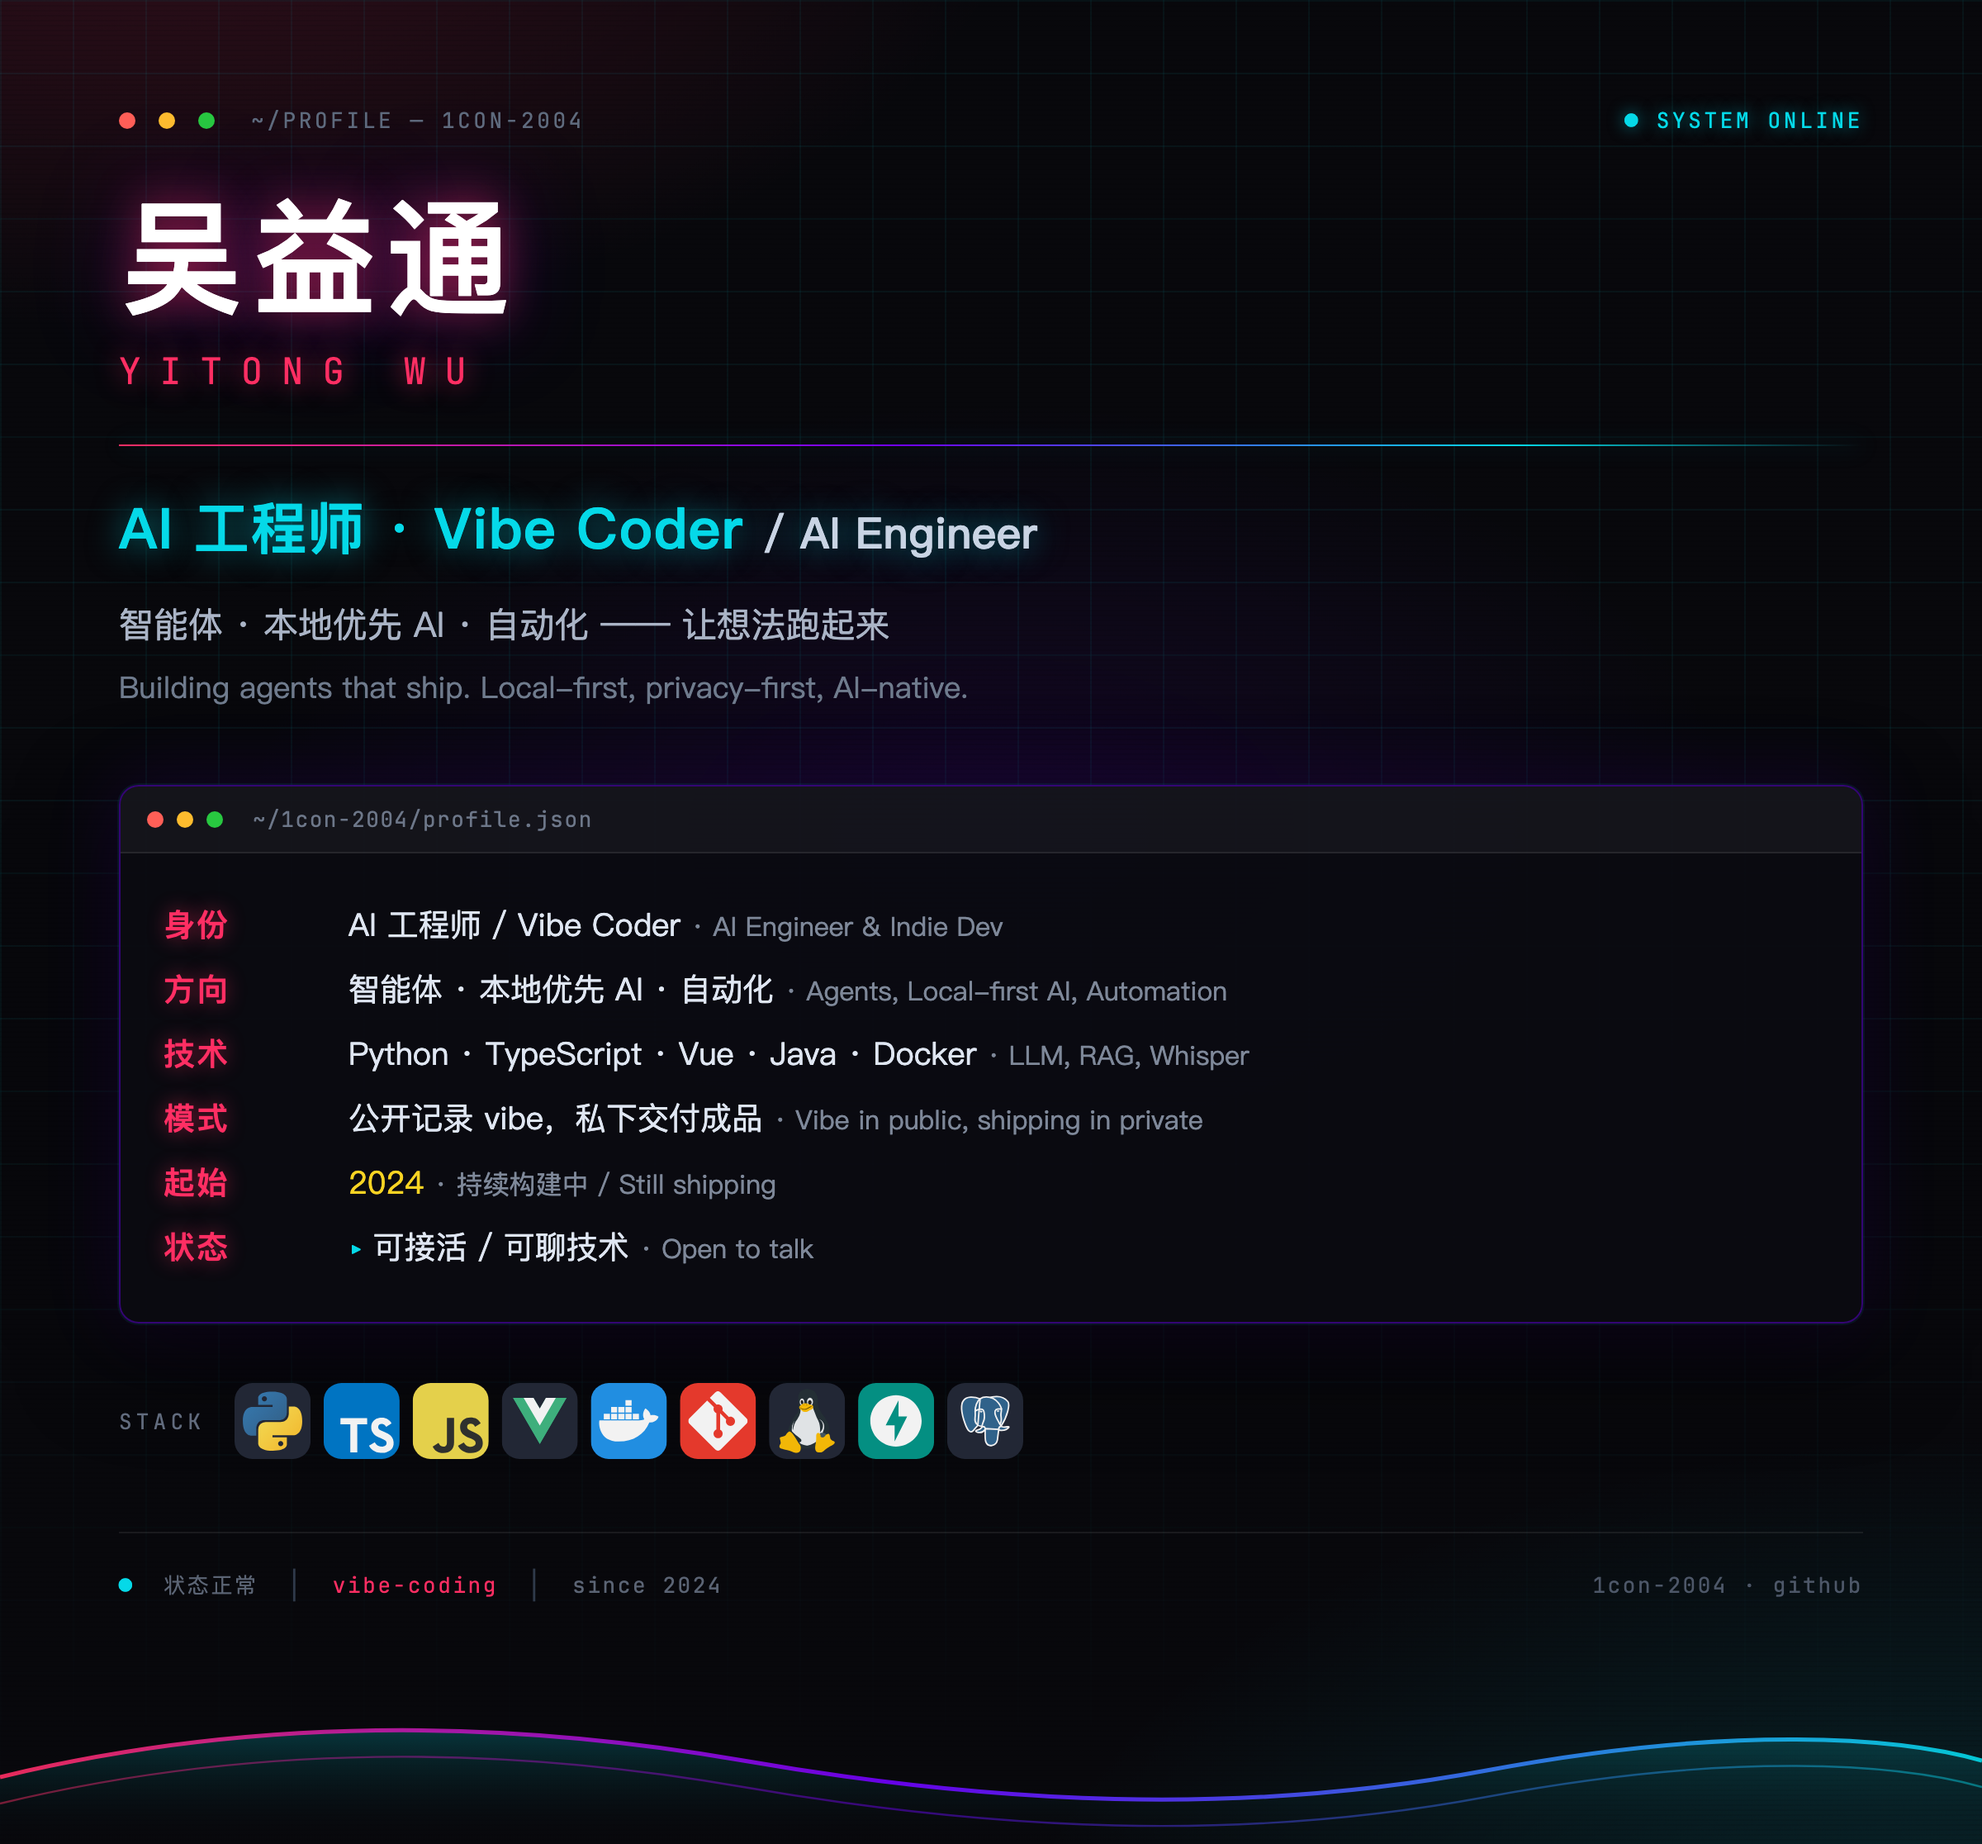
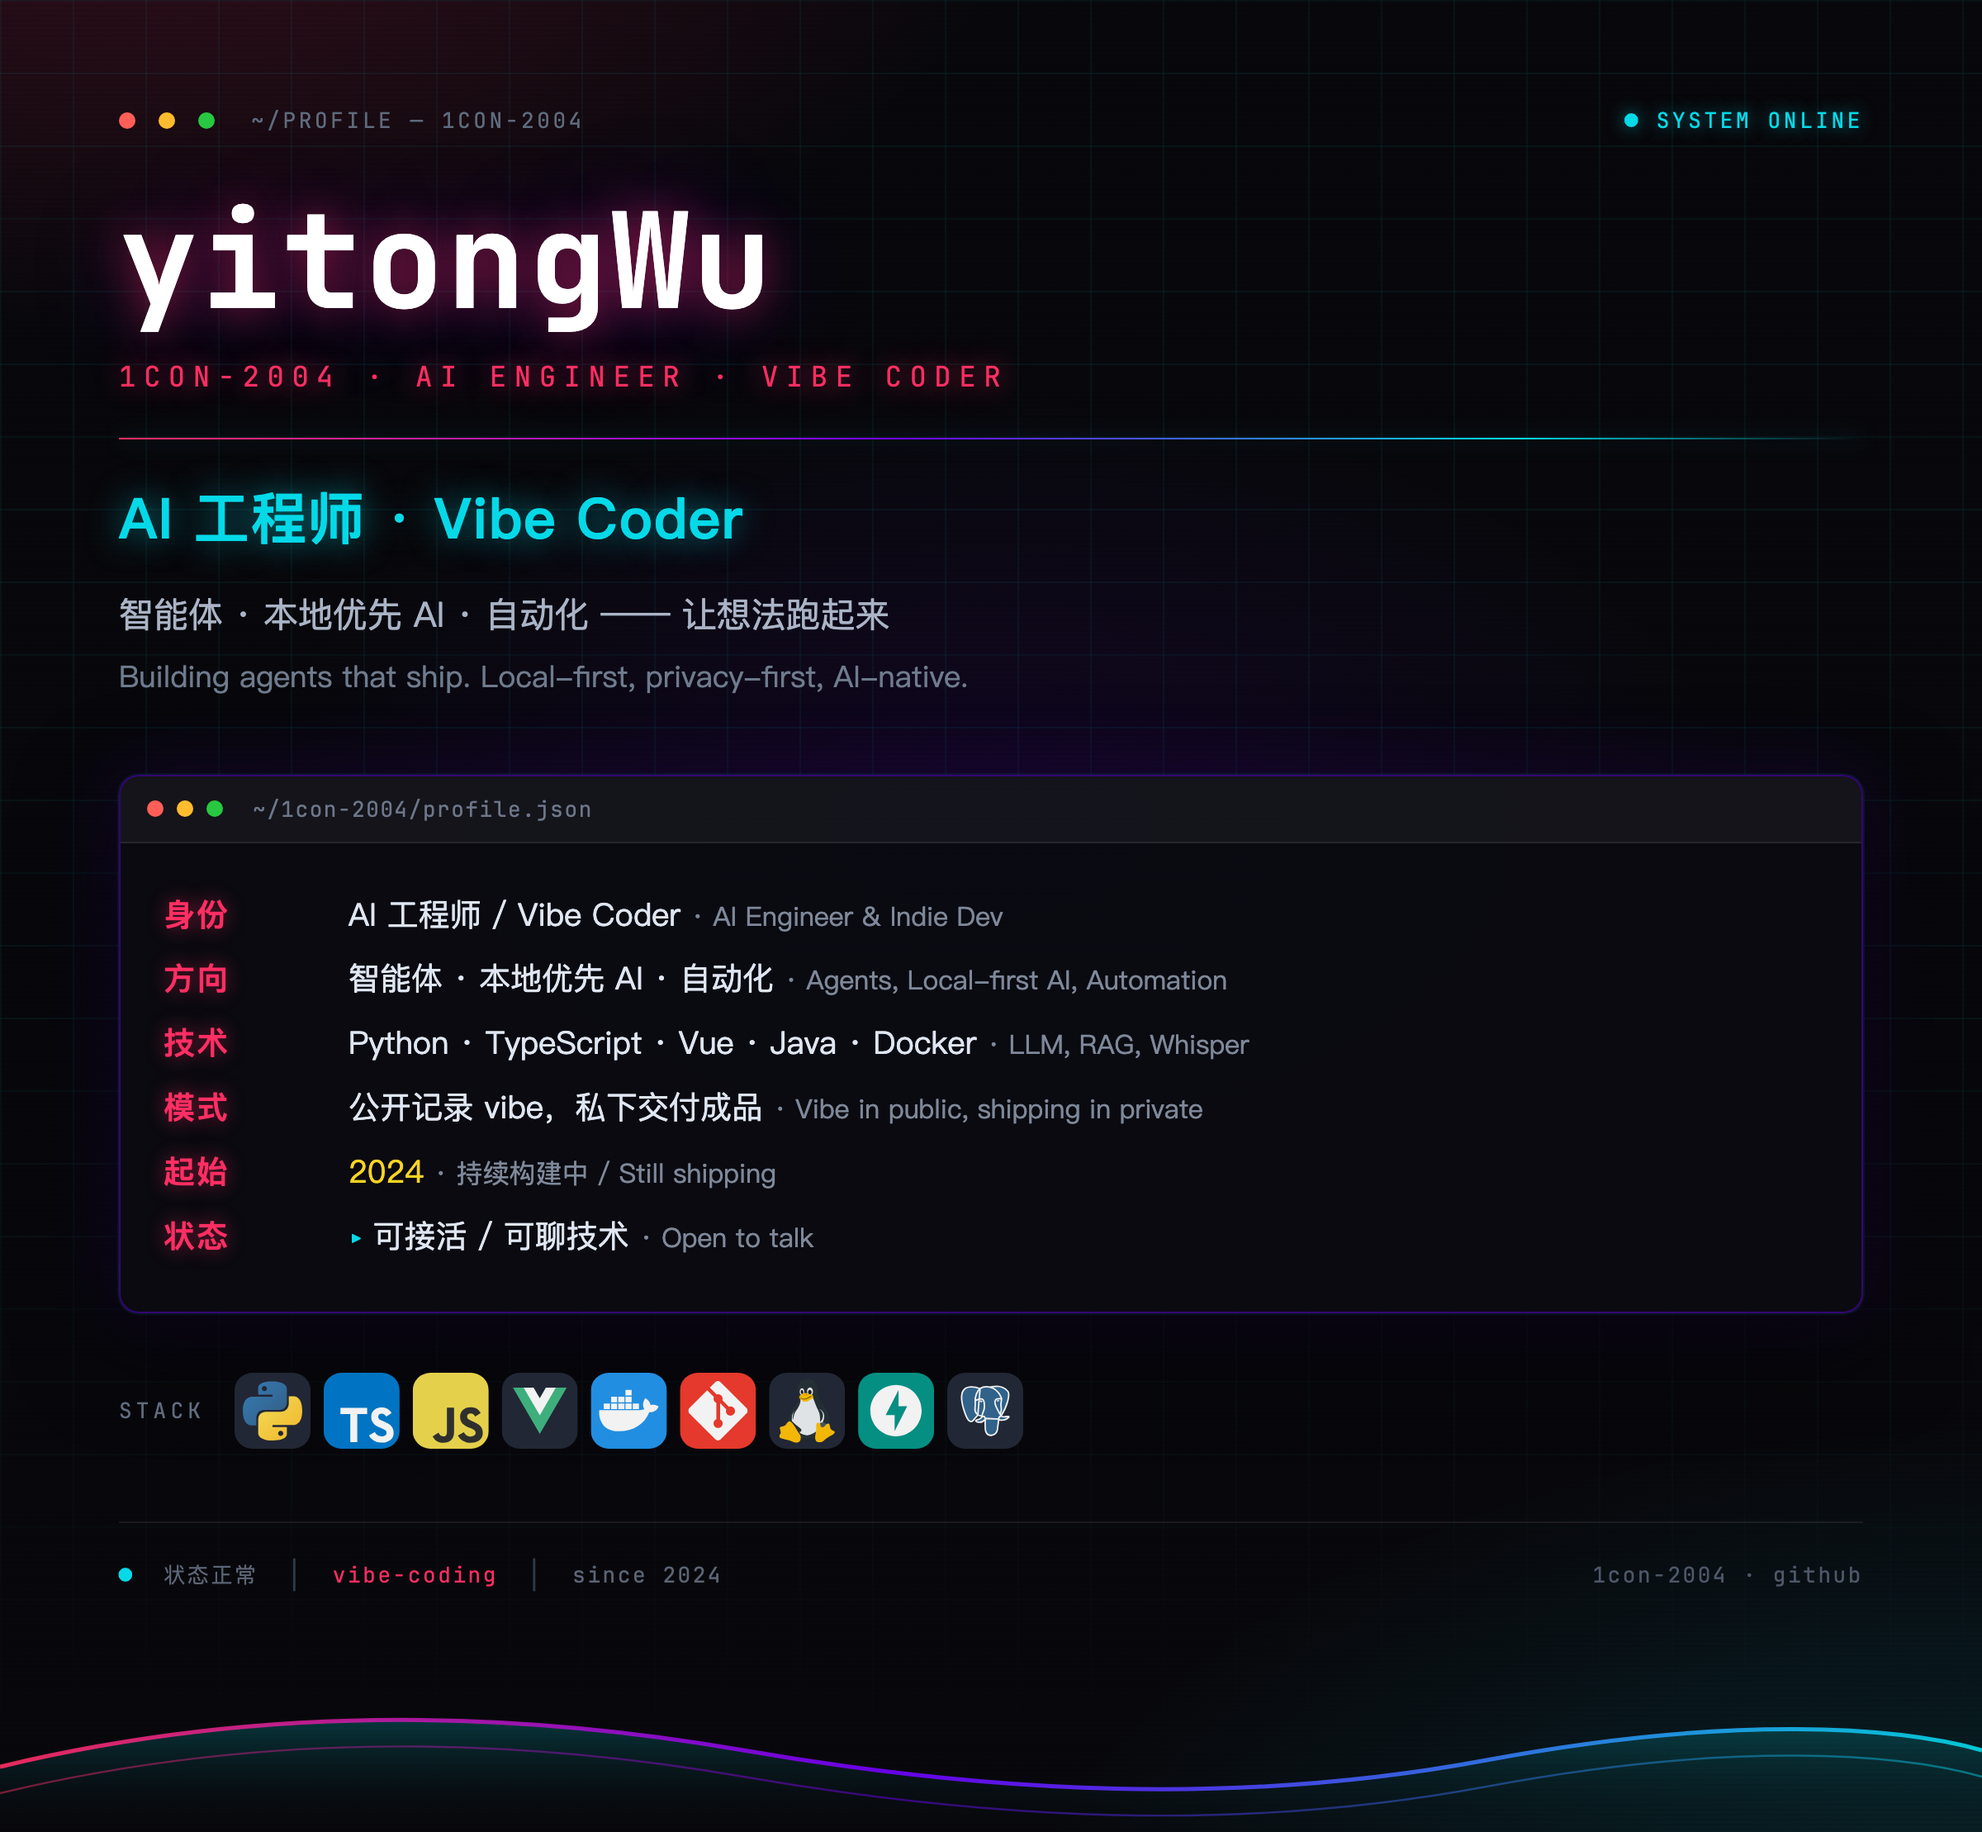
refactor: use latin handle yitongWu as display name

diff --git a/poster.html b/poster.html
@@ -64,17 +64,18 @@
 
   /* ── 主标题 ── */
   h1 {
-    font-size:76px; font-weight:800; letter-spacing:.06em; line-height:1.06;
+    font-family:"SF Mono","JetBrains Mono",Menlo,monospace;
+    font-size:80px; font-weight:700; letter-spacing:.02em; line-height:1.06;
     color:#ffffff;
     text-shadow:0 0 26px rgba(255,46,99,.55), 0 0 60px rgba(112,0,255,.35);
   }
   .latin {
     font-family:"SF Mono","JetBrains Mono",Menlo,monospace;
-    font-size:22px; letter-spacing:.52em; margin-top:14px;
+    font-size:17px; letter-spacing:.28em; margin-top:16px;
     color:var(--pink); text-shadow:0 0 16px rgba(255,46,99,.65);
   }
   .rule {
-    width:100%; height:1px; margin:30px 0 26px;
+    width:100%; height:1px; margin:26px 0 24px;
     background:linear-gradient(90deg, var(--pink), var(--purple) 45%, var(--cyan) 80%, transparent);
     box-shadow:0 0 14px rgba(5,217,232,.35);
   }
@@ -153,12 +154,12 @@
       <span class="sb-live">● SYSTEM ONLINE</span>
     </div>
 
-    <h1>吴益通</h1>
-    <div class="latin">YITONG WU</div>
+    <h1>yitongWu</h1>
+    <div class="latin">1CON-2004 · AI ENGINEER · VIBE CODER</div>
 
     <div class="rule"></div>
 
-    <div class="role">AI 工程师 · Vibe Coder <span class="en">/ AI Engineer</span></div>
+    <div class="role">AI 工程师 · Vibe Coder</div>
     <div class="tagline">
       智能体 · 本地优先 AI · 自动化 —— 让想法跑起来
       <br><span class="en">Building agents that ship. Local-first, privacy-first, AI-native.</span>

diff --git a/README.md b/README.md
@@ -1,12 +1,12 @@
 <div align="center">
-  <img src="assets/hero.png" width="100%" alt="吴益通 · Yitong Wu — AI 工程师 / Vibe Coder" />
+  <img src="assets/hero.png" width="100%" alt="yitongWu — AI 工程师 / Vibe Coder" />
 </div>
 
 <br>
 
 <div align="center">
-  <a href="https://readme-typing-svg.demolab.com?font=Fira+Code&amp;size=22&amp;duration=4500&amp;pause=1500&amp;color=05D9E8&amp;background=0b0b12&amp;center=true&amp;vCenter=true&amp;width=560&amp;lines=%E5%90%B4%E7%9B%8A%E9%80%9A+%E2%80%A2+AI+%E5%B7%A5%E7%A8%8B%E5%B8%88+%E2%80%A2+Vibe+Coder;%E6%99%BA%E8%83%BD%E4%BD%93+%E2%80%A2+%E6%9C%AC%E5%9C%B0%E4%BC%98%E5%85%88+AI+%E2%80%A2+%E8%87%AA%E5%8A%A8%E5%8C%96;Building+AI+agents+that+ship">
-    <img src="https://readme-typing-svg.demolab.com?font=Fira+Code&amp;size=22&amp;duration=4500&amp;pause=1500&amp;color=05D9E8&amp;background=0b0b12&amp;center=true&amp;vCenter=true&amp;width=560&amp;lines=%E5%90%B4%E7%9B%8A%E9%80%9A+%E2%80%A2+AI+%E5%B7%A5%E7%A8%8B%E5%B8%88+%E2%80%A2+Vibe+Coder;%E6%99%BA%E8%83%BD%E4%BD%93+%E2%80%A2+%E6%9C%AC%E5%9C%B0%E4%BC%98%E5%85%88+AI+%E2%80%A2+%E8%87%AA%E5%8A%A8%E5%8C%96;Building+AI+agents+that+ship" alt="吴益通 · AI 工程师 · Vibe Coder" />
+  <a href="https://readme-typing-svg.demolab.com?font=Fira+Code&amp;size=22&amp;duration=4500&amp;pause=1500&amp;color=05D9E8&amp;background=0b0b12&amp;center=true&amp;vCenter=true&amp;width=560&amp;lines=yitongWu+%E2%80%A2+AI+%E5%B7%A5%E7%A8%8B%E5%B8%88+%E2%80%A2+Vibe+Coder;%E6%99%BA%E8%83%BD%E4%BD%93+%E2%80%A2+%E6%9C%AC%E5%9C%B0%E4%BC%98%E5%85%88+AI+%E2%80%A2+%E8%87%AA%E5%8A%A8%E5%8C%96;Building+AI+agents+that+ship">
+    <img src="https://readme-typing-svg.demolab.com?font=Fira+Code&amp;size=22&amp;duration=4500&amp;pause=1500&amp;color=05D9E8&amp;background=0b0b12&amp;center=true&amp;vCenter=true&amp;width=560&amp;lines=yitongWu+%E2%80%A2+AI+%E5%B7%A5%E7%A8%8B%E5%B8%88+%E2%80%A2+Vibe+Coder;%E6%99%BA%E8%83%BD%E4%BD%93+%E2%80%A2+%E6%9C%AC%E5%9C%B0%E4%BC%98%E5%85%88+AI+%E2%80%A2+%E8%87%AA%E5%8A%A8%E5%8C%96;Building+AI+agents+that+ship" alt="yitongWu · AI 工程师 · Vibe Coder" />
   </a>
 </div>
 
